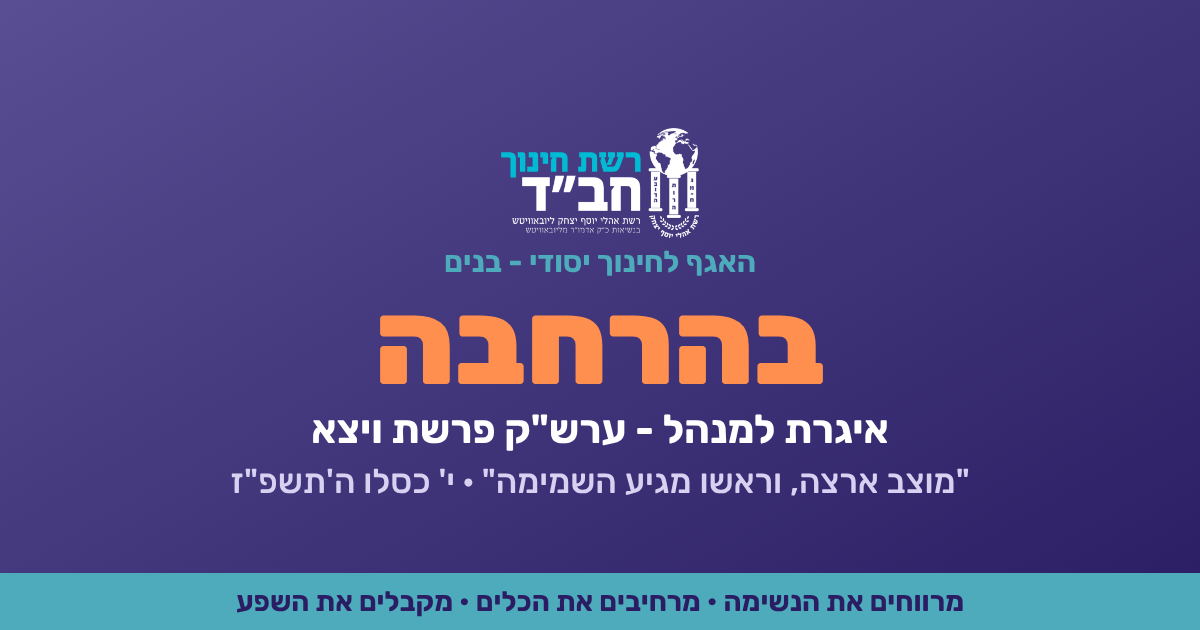
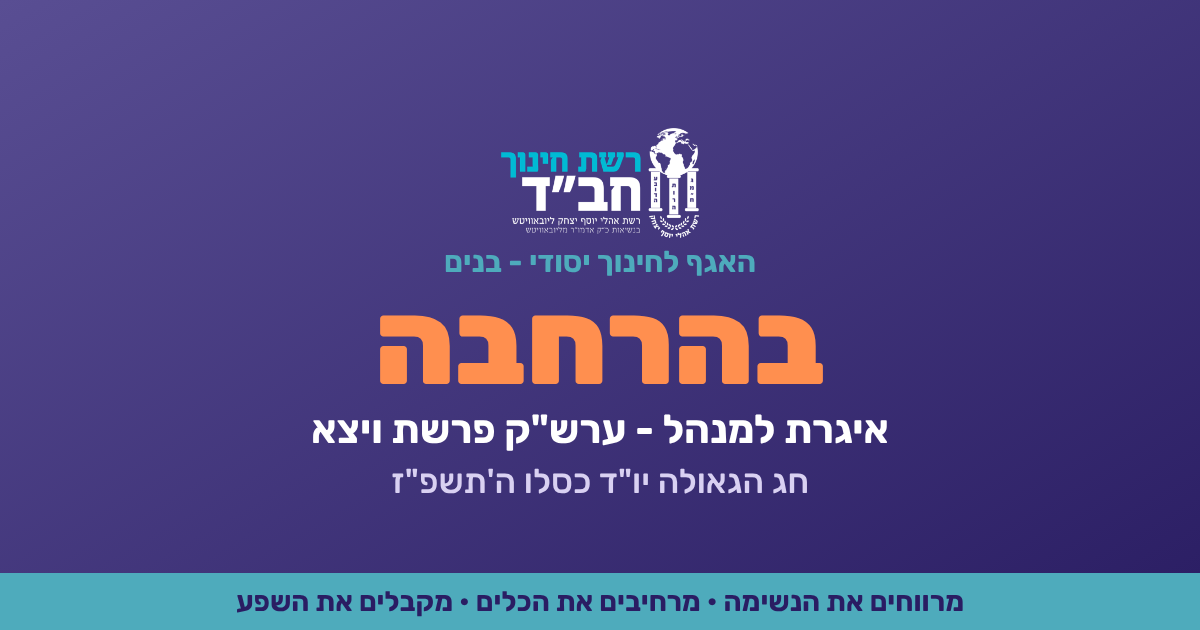
Add Chag HaGeula Yud Kislev to the date line and cover
Claude-Session: https://claude.ai/code/session_01Uz7j8v3kdE6SpYAcXhAgPr

Changed region(s): [[0.185, 0.7238, 0.8017, 0.7841]]

diff --git a/vayetze/index.html b/vayetze/index.html
@@ -245,7 +245,7 @@ input{font:inherit;font-size:16px;color:var(--ink);background:var(--bg);border:1
[1 lines of base64/hex data omitted]
     <span class="dept">האגף לחינוך יסודי - בנים</span>
     <span class="word">בהרחבה</span>
-    <p class="sub">איגרת למנהל - ערש"ק פרשת ויצא<br><span style="font-weight:500;font-size:.95rem;color:#d9d1f2">י' בכסלו ה'תשפ"ז · חג הגאולה של כ"ק אדמו"ר האמצעי</span></p>
+    <p class="sub">איגרת למנהל - ערש"ק פרשת ויצא<br><span style="font-weight:500;font-size:.95rem;color:#d9d1f2">חג הגאולה יו"ד כסלו ה'תשפ"ז</span></p>
     <p class="greet" id="greet" hidden></p>
     <p class="band">מרווחים את הנשימה • מרחיבים את הכלים • מקבלים את השפע</p>
     <h1>מוצב ארצה, <em>וראשו</em> מגיע השמימה</h1>

diff --git a/vayetze/source.html b/vayetze/source.html
@@ -226,7 +226,7 @@ input{font:inherit;font-size:16px;color:var(--ink);background:var(--bg);border:1
[1 lines of base64/hex data omitted]
     <span class="dept">האגף לחינוך יסודי - בנים</span>
     <span class="word">בהרחבה</span>
-    <p class="sub">איגרת למנהל - ערש"ק פרשת ויצא<br><span style="font-weight:500;font-size:.95rem;color:#d9d1f2">י' בכסלו ה'תשפ"ז · חג הגאולה של כ"ק אדמו"ר האמצעי</span></p>
+    <p class="sub">איגרת למנהל - ערש"ק פרשת ויצא<br><span style="font-weight:500;font-size:.95rem;color:#d9d1f2">חג הגאולה יו"ד כסלו ה'תשפ"ז</span></p>
     <p class="greet" id="greet" hidden></p>
     <p class="band">מרווחים את הנשימה • מרחיבים את הכלים • מקבלים את השפע</p>
     <h1>מוצב ארצה, <em>וראשו</em> מגיע השמימה</h1>

diff --git a/vayetze/body.html b/vayetze/body.html
@@ -7,7 +7,7 @@
     <img class="logo" alt="רשת חינוך חב&quot;ד" src="__LOGO__">
     <span class="dept">האגף לחינוך יסודי - בנים</span>
     <span class="word">בהרחבה</span>
-    <p class="sub">איגרת למנהל - ערש"ק פרשת ויצא<br><span style="font-weight:500;font-size:.95rem;color:#d9d1f2">י' בכסלו ה'תשפ"ז · חג הגאולה של כ"ק אדמו"ר האמצעי</span></p>
+    <p class="sub">איגרת למנהל - ערש"ק פרשת ויצא<br><span style="font-weight:500;font-size:.95rem;color:#d9d1f2">חג הגאולה יו"ד כסלו ה'תשפ"ז</span></p>
     <p class="greet" id="greet" hidden></p>
     <p class="band">מרווחים את הנשימה • מרחיבים את הכלים • מקבלים את השפע</p>
     <h1>מוצב ארצה, <em>וראשו</em> מגיע השמימה</h1>
